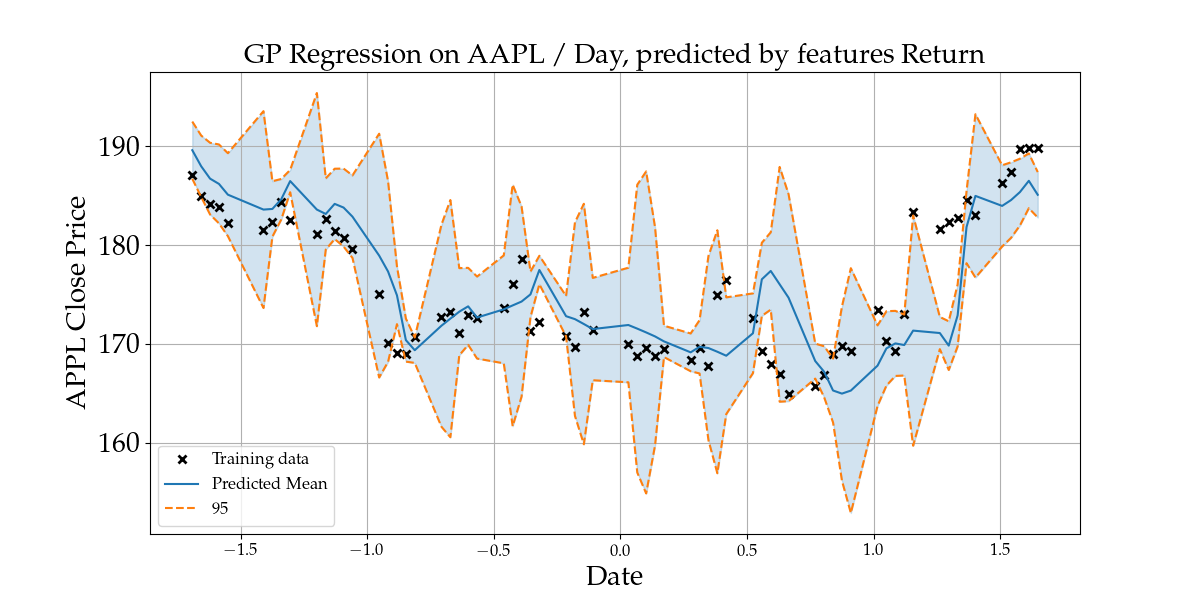
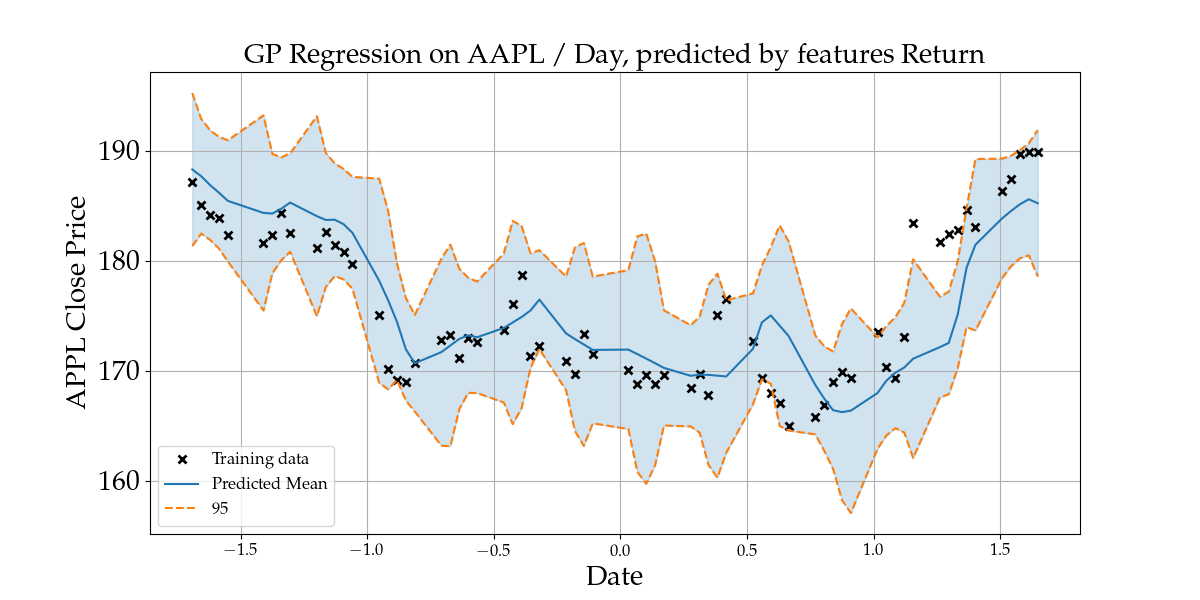
change kernels combination to addition to multiplication
change kernels combination to addition to multiplication

diff --git a/Multi-Input_GPR/main.py b/Multi-Input_GPR/main.py
@@ -111,7 +111,8 @@ class MultiInputGPR:
     
         # k1 = kernel1_class(active_dims=slice(0, input_dimension - 2), variance=1.0)
         # gpflow.set_trainable(k1.variance, False)
-        k1 = kernel1_class(active_dims=slice(0, input_dimension - 2))
+        k1 = kernel1_class(active_dims=slice(0, input_dimension - 1))
+        #k1 = kernel1_class(active_dims=slice(0, 1))
     
         # Kernel for the second dimension (time)
         # Create the Kernel2 here
@@ -119,7 +120,7 @@ class MultiInputGPR:
         #k2 = gpflow.kernels.slice(kernel2, slice(input_dimension - 1, input_dimension))
         
         # Combine the kernels
-        return k1 + k2 
+        return k1 * k2 
         
     def run_step_1(self) -> None:
     
@@ -286,6 +287,7 @@ class MultiInputGPR:
         #3. Concatenate multi-dimenstional input data X = [X1, X2, ...], as days * features vector
         # X_AAPL_tf should be equal to X_tf
         
+        ## Remove Time as a feature
         _X.append(X_AAPL_tf)
         X = self.data_handler.concatenate_X(_X)
 
@@ -365,9 +367,9 @@ if __name__ == "__main__":
         threshold=0.30,
         predict_Y=predict_Y,
         removal_percentage=0.1,
-        isFixedLikelihood=False
+        isFixedLikelihood=True
     )
 
-    multiInputGPR.run_step_2()
+    multiInputGPR.run_step_3()
     plt.show()
 
